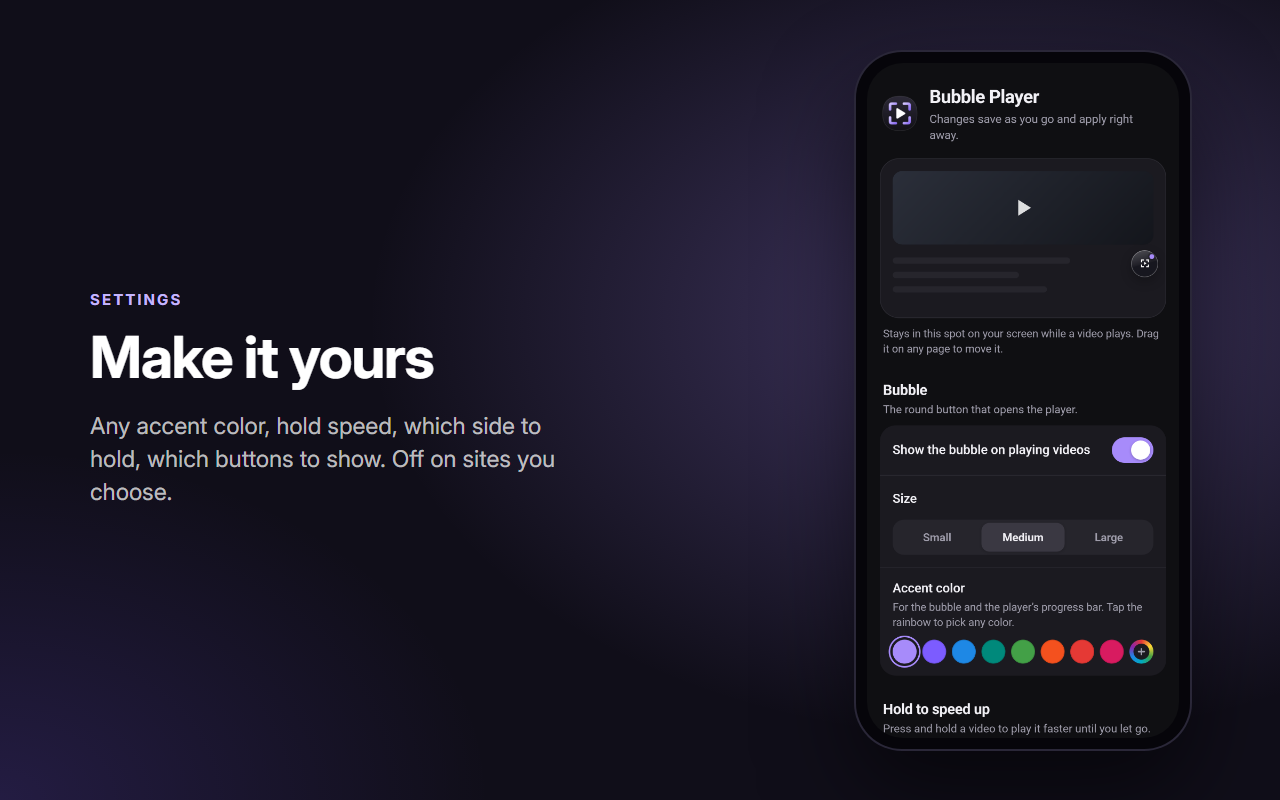
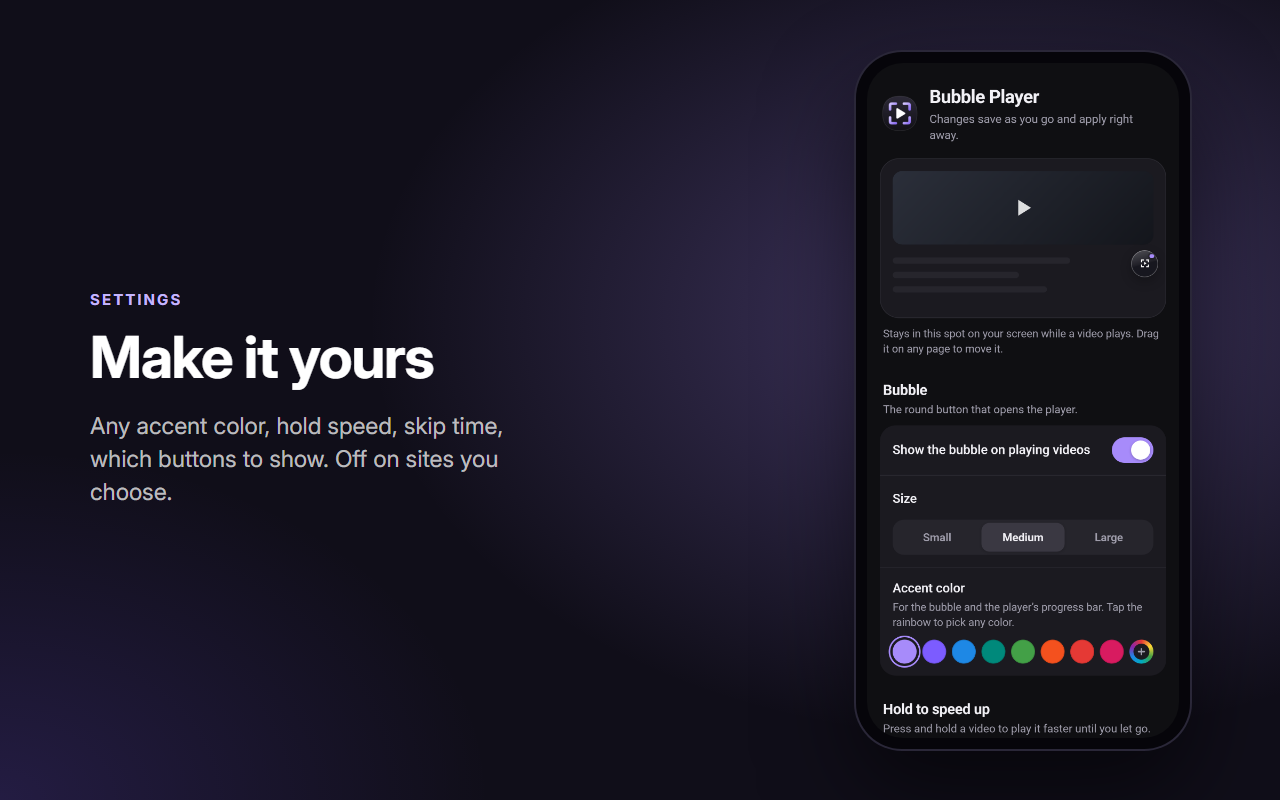
README: the player's ⚙ settings menu (1.2.0), screenshots regenerated with the new buttons

Changed region(s): [[0.0625, 0.5, 0.4375, 0.5938]]

diff --git a/README.md b/README.md
@@ -42,8 +42,9 @@ Hold-for-2× also works on videos right in the page, without opening the player.
 **Player:** auto-rotate to fit the video, a rotate button, an optional screen lock, the site's subtitles,
 playback speed menu (0.5×–3×), fit or fill, and loop. Muted feed videos get their sound back when you open them.
 
-**Make it yours:** any accent color, the hold speed and side, the skip time, which buttons and gestures you want,
-and sites where it stays off.
+**Make it yours:** tap ⚙ in the player to pick the buttons, gestures, skip time and hold speed, right there; each
+change shows behind the menu. The settings page has the rest: any accent color, the bubble's size, and sites where
+it stays off.
 
 **Privacy:** collects nothing and sends nothing anywhere. No ads, no account, no tracking.
 
@@ -59,44 +60,52 @@ and sites where it stays off.
     <td align="center"><sub>A calm, simple fullscreen player</sub></td>
   </tr>
   <tr>
+    <td><img src="media/screenshots/13-menu.png" alt="Settings right in the player"></td>
     <td><img src="media/screenshots/3-hold.png" alt="Hold to play at 2×"></td>
-    <td><img src="media/screenshots/4-skip.png" alt="Double-tap to skip"></td>
   </tr>
   <tr>
+    <td align="center"><sub>Tap ⚙ in the player: buttons, gestures, skip time and speed, right there</sub></td>
     <td align="center"><sub>Hold to play at 2×</sub></td>
-    <td align="center"><sub>Double-tap to skip, swipe to seek</sub></td>
   </tr>
   <tr>
+    <td><img src="media/screenshots/4-skip.png" alt="Double-tap to skip"></td>
     <td><img src="media/screenshots/7-seek.png" alt="A preview while you seek"></td>
-    <td><img src="media/screenshots/5-volume.png" alt="Swipe for volume and brightness"></td>
   </tr>
   <tr>
+    <td align="center"><sub>Double-tap to skip, swipe to seek</sub></td>
     <td align="center"><sub>See where you're going: a preview while you seek</sub></td>
-    <td align="center"><sub>Swipe for volume and brightness</sub></td>
   </tr>
   <tr>
+    <td><img src="media/screenshots/5-volume.png" alt="Swipe for volume and brightness"></td>
     <td><img src="media/screenshots/8-brightness.png" alt="Swipe left to dim the picture"></td>
-    <td><img src="media/screenshots/11-page-hold.png" alt="Hold for 2× right in the page"></td>
   </tr>
   <tr>
+    <td align="center"><sub>Swipe for volume and brightness</sub></td>
     <td align="center"><sub>Swipe left to dim the picture</sub></td>
-    <td align="center"><sub>Hold for 2× right in the page, no player needed</sub></td>
   </tr>
   <tr>
+    <td><img src="media/screenshots/11-page-hold.png" alt="Hold for 2× right in the page"></td>
     <td><img src="media/screenshots/9-speed.png" alt="Pick any speed"></td>
+  </tr>
+  <tr>
+    <td align="center"><sub>Hold for 2× right in the page, no player needed</sub></td>
+    <td align="center"><sub>Pick any speed (and an optional lock button)</sub></td>
+  </tr>
+  <tr>
     <td><img src="media/screenshots/10-fit.png" alt="Fit or fill the screen"></td>
-  </tr>
-  <tr>
-    <td align="center"><sub>Pick any speed (optional speed, fit, loop and lock buttons)</sub></td>
-    <td align="center"><sub>Fit the whole picture, or fill the screen</sub></td>
-  </tr>
-  <tr>
     <td><img src="media/screenshots/6-settings.png" alt="Settings"></td>
-    <td><img src="media/screenshots/12-colors.png" alt="Any color you like"></td>
   </tr>
   <tr>
+    <td align="center"><sub>Fit the whole picture, or fill the screen</sub></td>
     <td align="center"><sub>Any accent color, your buttons, your gestures</sub></td>
+  </tr>
+  <tr>
+    <td><img src="media/screenshots/12-colors.png" alt="Any color you like"></td>
+    <td></td>
+  </tr>
+  <tr>
     <td align="center"><sub>Any color you like; turn it off on a site from the quick menu</sub></td>
+    <td></td>
   </tr>
 </table>
 
